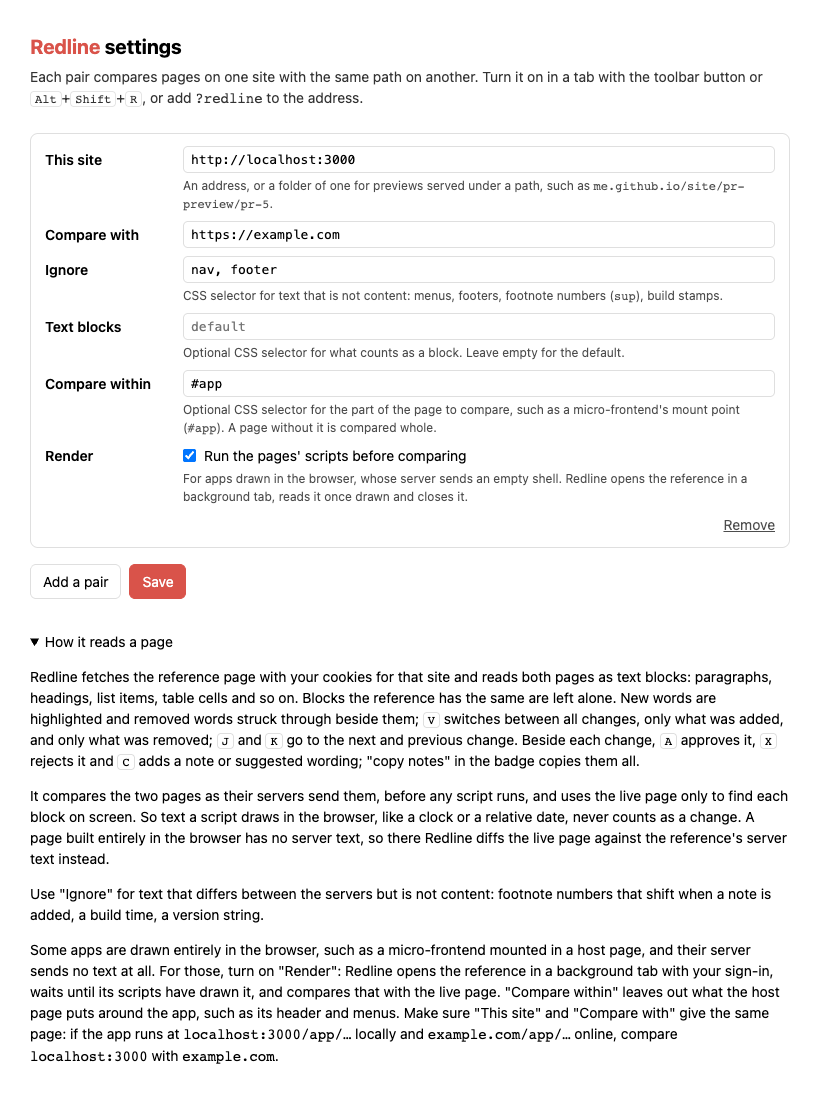
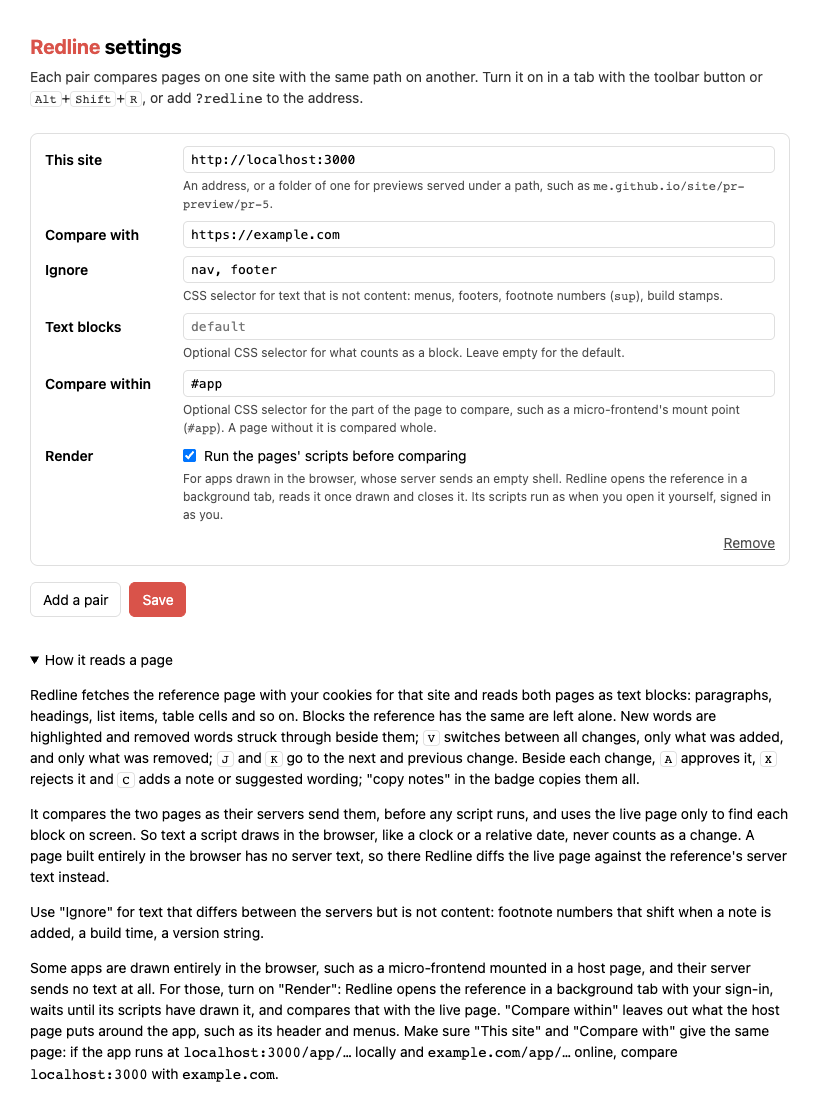
0.5.1: say that Render runs the reference's scripts; link the store
The settings and the README now say that a rendered reference runs its
scripts signed in as you, so whatever opening the page does happens too.
The README installs from the Chrome Web Store.

diff --git a/src/options.html b/src/options.html
@@ -63,7 +63,7 @@
     <div class="hint">Optional CSS selector for the part of the page to compare, such as a micro-frontend's mount point (<code>#app</code>). A page without it is compared whole.</div>
     <label>Render</label>
     <label class="check"><input type="checkbox" name="render"> Run the pages' scripts before comparing</label>
-    <div class="hint">For apps drawn in the browser, whose server sends an empty shell. Redline opens the reference in a background tab, reads it once drawn and closes it.</div>
+    <div class="hint">For apps drawn in the browser, whose server sends an empty shell. Redline opens the reference in a background tab, reads it once drawn and closes it. Its scripts run as when you open it yourself, signed in as you.</div>
     <div class="row-end"><button class="link remove">Remove</button></div>
   </div>
 </template>

diff --git a/README.md b/README.md
@@ -57,14 +57,17 @@ one. The list stays for the tab until you scan again.
 
 ## Install
 
-Not in the Chrome Web Store yet. To load it from this folder:
+Install it from the
+[Chrome Web Store](https://chromewebstore.google.com/detail/redline/dmklhbagmdnahnflpmmeagcopljbciij)
+and pin Redline to the toolbar. It should work the same in other Chromium
+browsers (Brave, Arc, Edge).
+
+To run it from a clone instead, for example to try a change:
 
 1. Clone the repo.
 2. Open `chrome://extensions`, turn on **Developer mode**, click **Load
    unpacked** and pick the folder.
 3. Pin Redline to the toolbar.
-
-It should work the same in other Chromium browsers (Brave, Arc, Edge).
 
 ## Use
 
@@ -100,6 +103,10 @@ page in a background tab next to yours (with your sign-in, like any tab),
 waits until its scripts have drawn it, reads it, closes the tab, and compares
 it with the live page.
 
+As the reference's scripts run, signed in as you, whatever the page does when
+you open it happens then too: if opening a page marks a task as read or takes
+it, so does Redline. That also goes for every page the pages list checks.
+
 Online, a micro-frontend usually sits inside a host page with its own header
 and menus, while locally it runs on its own. Set **Compare within** to the
 element the app is mounted in, such as `#my-app`, so the host's text does not
@@ -120,12 +127,18 @@ the settings. Put this in the `<head>` of every page:
 
 ```html
 <meta name="redline" content="https://example.com">
-<!-- optional: text that differs but is not content -->
-<meta name="redline-ignore" content="nav, footer, sup">
-<!-- optional, for apps drawn in the browser: render, and compare only #app -->
-<meta name="redline-render" content="true">
-<meta name="redline-scope" content="#app">
 ```
+
+Settings for the pair can follow the address, separated by semicolons:
+
+```html
+<meta name="redline" content="https://example.com; ignore=nav, footer, sup">
+```
+
+- `ignore=`: text that differs but is not content, as in the settings.
+- `scope=`: compare only within this element, such as `#app`.
+- `render`: for apps drawn in the browser; see below.
+- `root=`: the folder the site is served from, for previews in a folder.
 
 Clicking the Redline button on a page with the tag saves the pair and starts
 comparing. Chrome asks once for access to both sites. If Chrome will not ask
@@ -154,13 +167,12 @@ itself and says nothing changed. Or render it only on previews, for example:
   so it compares `…/pr-preview/pr-5/about` with `…/about`:
 
   ```html
-  <meta name="redline" content="https://<user>.github.io/<repo>">
-  <meta name="redline-root" content="/<repo>/pr-preview/pr-5/">
+  <meta name="redline" content="https://<user>.github.io/<repo>; root=/<repo>/pr-preview/pr-5/">
   ```
 
   In the workflow, pass the folder to the build, for example as
   `REDLINE_ROOT: /${{ github.event.repository.name }}/pr-preview/pr-${{ github.event.number }}/`,
-  and render the two tags only when it is set.
+  and render the tag only when it is set.
 
 Vercel, Cloudflare and Netlify post their preview links on the pull request
 themselves, so with the tag in place, a reviewer can open the link from the PR
